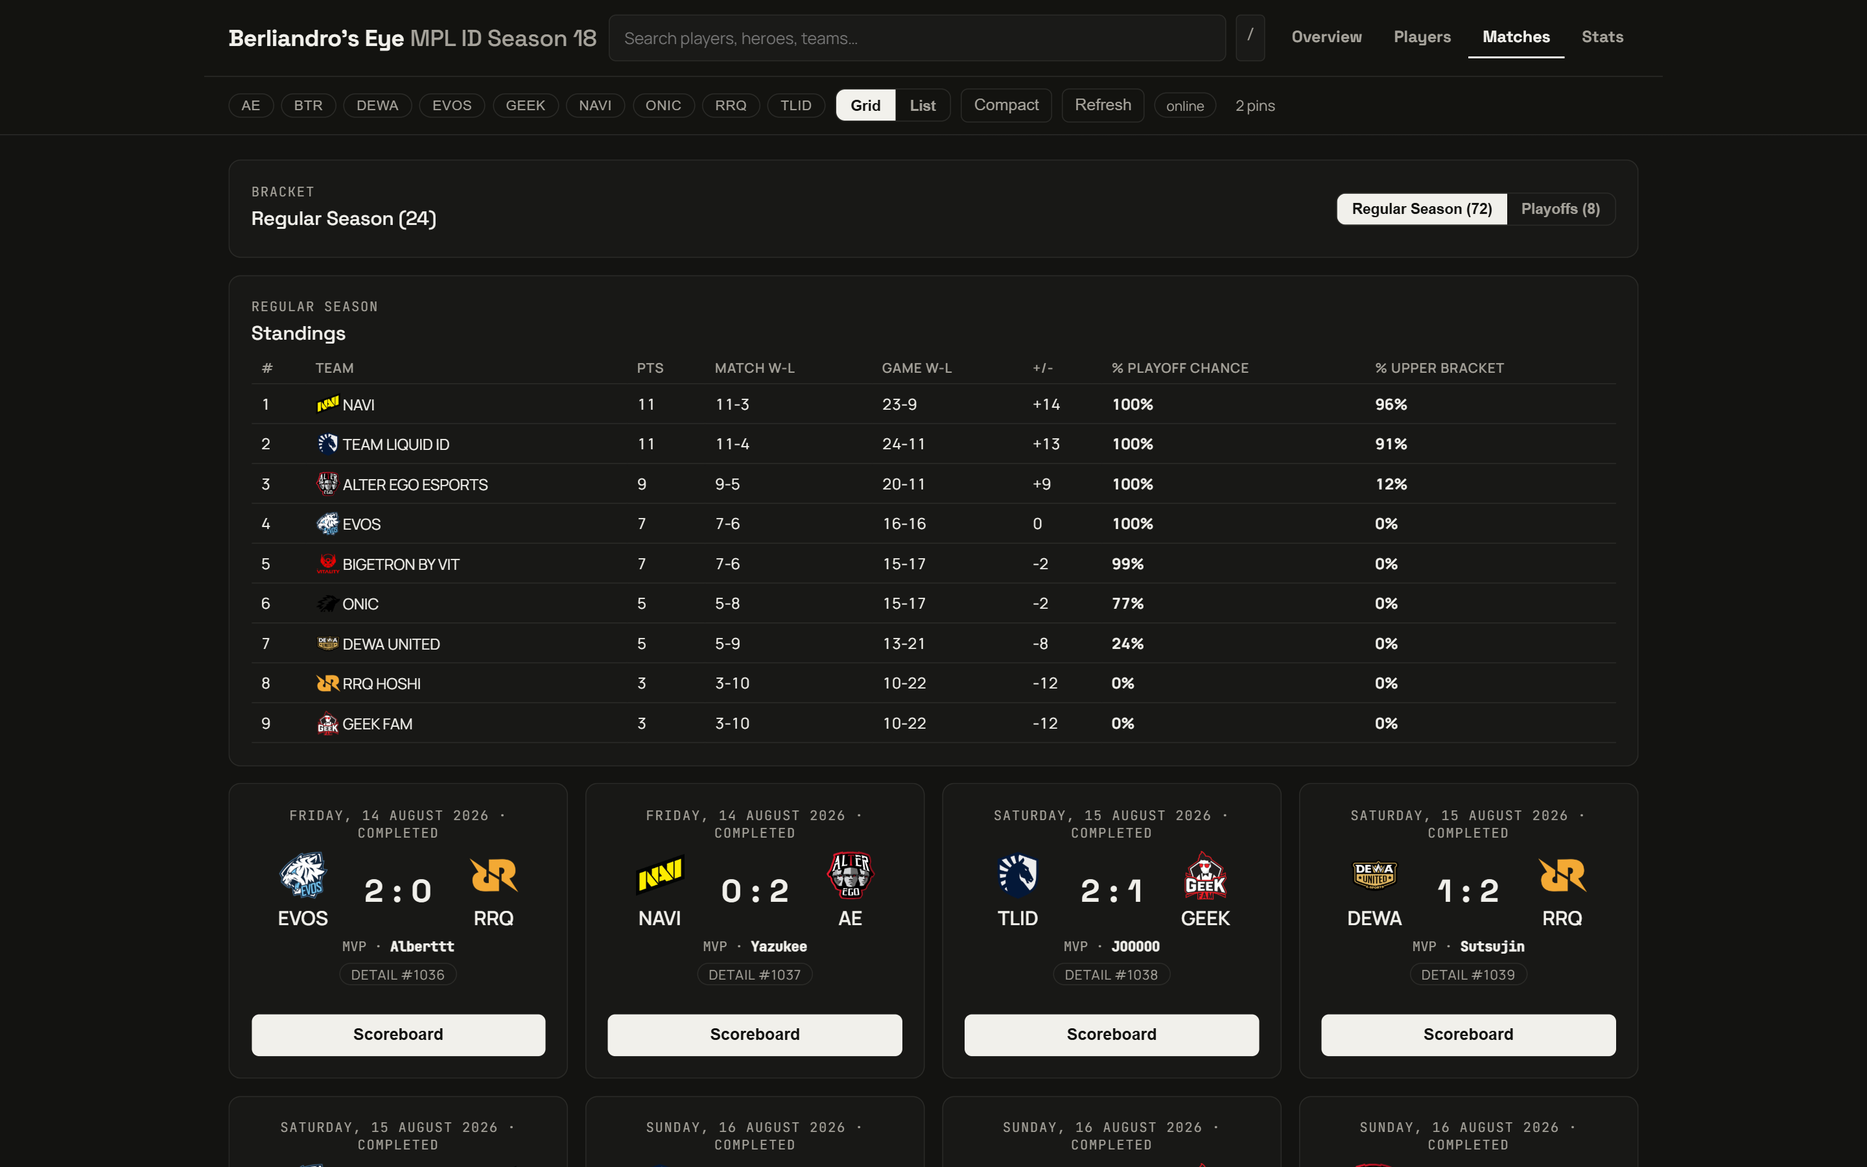
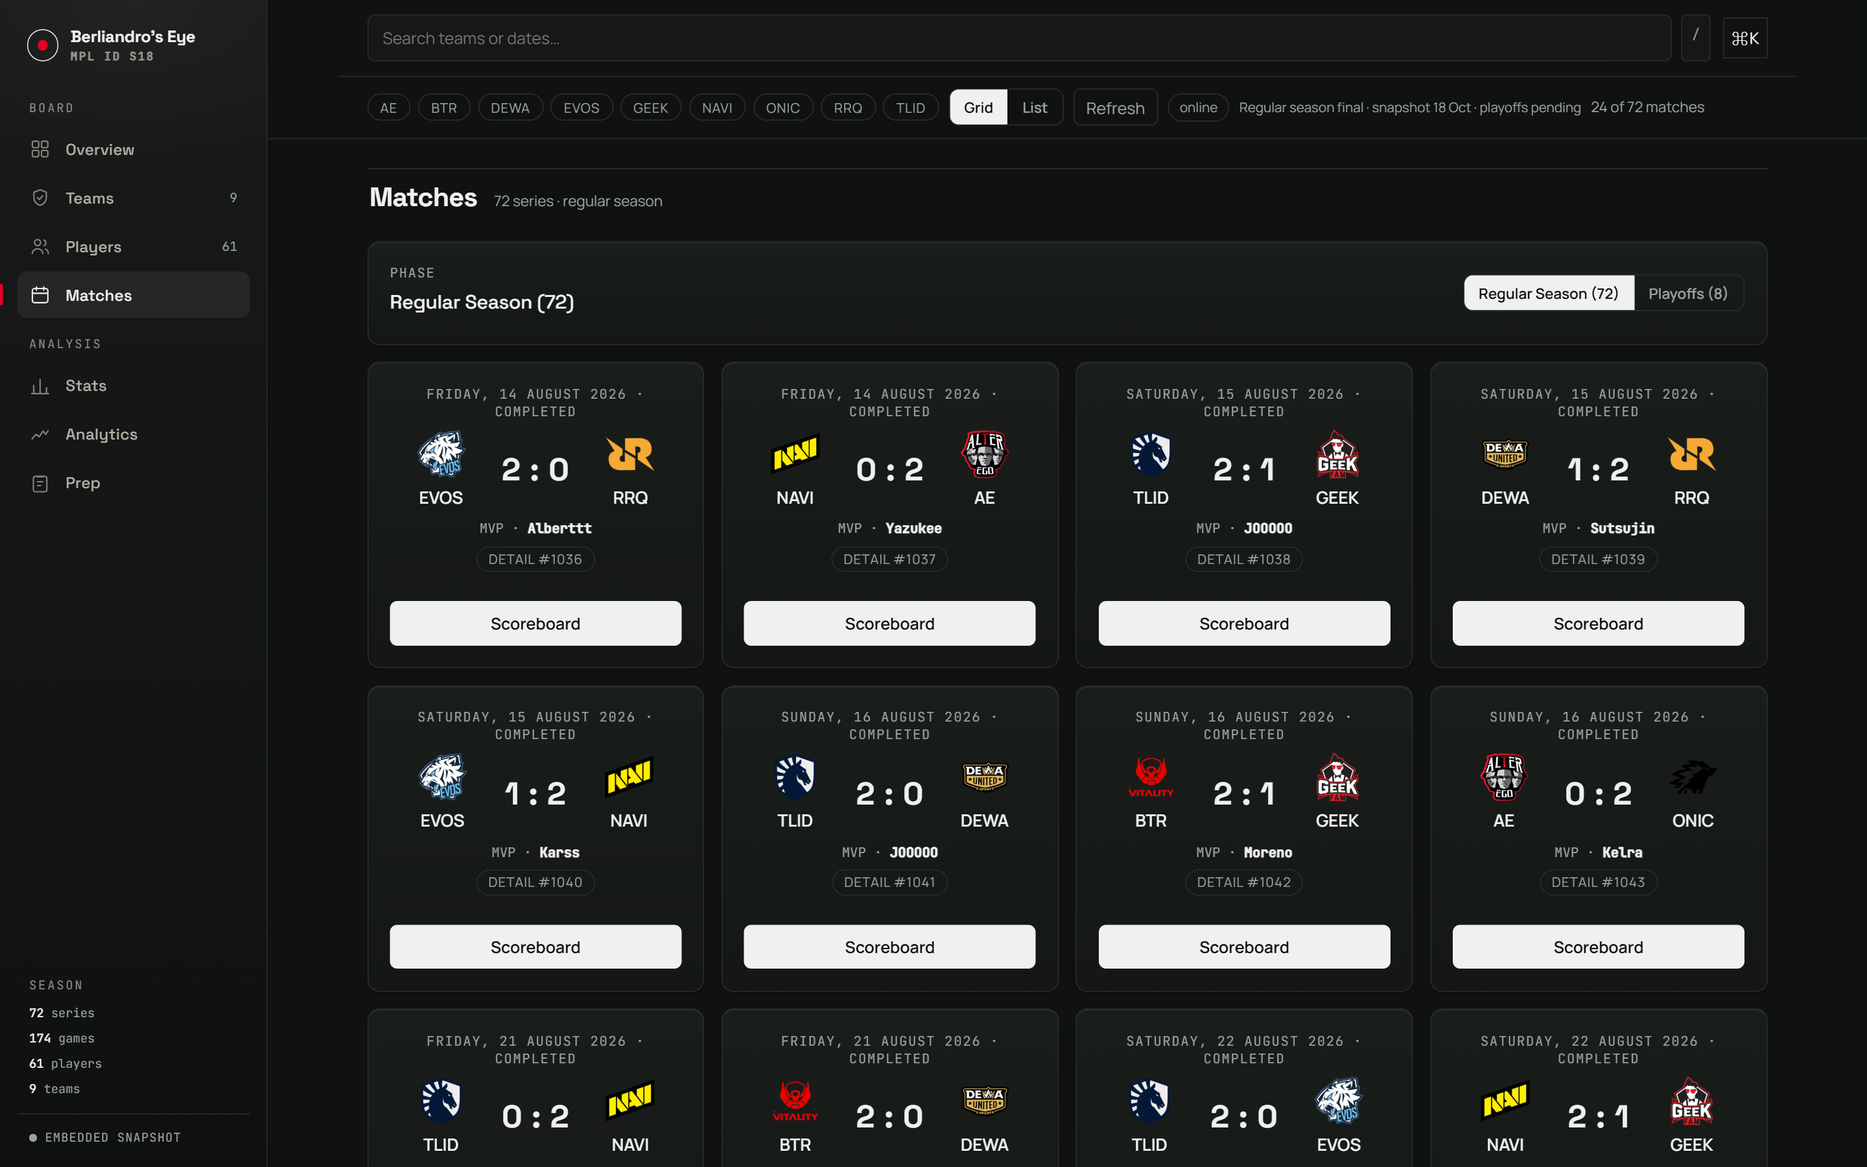
docs: refresh the README gallery for the instrument-panel world; add Teams board and dossier

diff --git a/mpl_id_s18_dark.html b/mpl_id_s18_dark.html
@@ -1328,7 +1328,10 @@ function viewCount(){
 if(S.view==='overview')return '';
 if(S.view==='teams')return TEAMS.length+' teams';
 if(S.view==='players'){const n=board.querySelectorAll('.pl,.lrow').length;return n+(n===1?' player':' players');}
-if(S.view==='matches')return board.querySelectorAll('.mrow,.mpin').length+' matches';
+if(S.view==='matches'){
+ const shown=board.querySelectorAll('.mrow,.mpin').length;
+ const total=(DATA.schedule||[]).filter(m=>{const po=String(m.schedule_id||'').indexOf('playoffs')>-1;return (S.phase==='po'?po:!po)&&m.status==='completed';}).length;
+ return shown+(shown<total?' of '+total:'')+' matches';}
 if(S.view==='stats')return S.stat==='heroes'?(DATA.heroes||[]).filter(h=>(+h.pick||0)+(+h.ban||0)>0).length+' heroes':(DATA.matches||[]).filter(m=>m.liq_mvp).length+' MVP awards';
 if(S.view==='analytics')return anPart('AN').players.length+' players';
 if(S.view==='prep')return PREP?'1 report':'';
@@ -1952,7 +1955,7 @@ function playerHTML(name){
     .sort((a,b)=>(matchOrder()[String(b.mid)]??-1)-(matchOrder()[String(a.mid)]??-1)).slice(0,8);
   const A=window.ASSETS||{heroes:{}};
   const anp=(anPart('AN').players||[]).find(x=>samePlayer(x.player,disp))||null;
-  const hrows=heroes.map(x=>`<tr><td><span class="hcell">${(A.heroes&&A.heroes[x.h])?`<img src="${esc(A.heroes[x.h])}" alt="" loading="lazy" onerror="this.remove()">`:''}${esc(x.h)}</span></td><td>${x.n}</td><td>${x.kda==null?'—':x.kda.toFixed(2)}</td><td>${x.k.toFixed(1)}</td><td>${x.d.toFixed(1)}</td><td>${x.a.toFixed(1)}</td><td>—</td><td>—</td><td>${x.gpm.toFixed(0)}</td></tr>`).join('');
+  const hrows=heroes.map(x=>`<tr><td><span class="hcell">${(A.heroes&&A.heroes[x.h])?`<img src="${esc(A.heroes[x.h])}" alt="" loading="lazy" onerror="this.remove()">`:''}${esc(x.h)}</span></td><td>${x.n}</td><td>${x.kda==null?'—':x.kda.toFixed(2)}</td><td>${x.k.toFixed(1)}</td><td>${x.d.toFixed(1)}</td><td>${x.a.toFixed(1)}</td><td>${x.gpm.toFixed(0)}</td></tr>`).join('');
   const grows=games.map(x=>`<div class="pp-g"><span class="d">${esc(String(x.d).slice(5))}</span><span class="o">${TICON(x.opp)?`<img src="${esc(TICON(x.opp))}" alt="" loading="lazy" ${IMG_HIDE}>`:''}<span>${esc(x.opp)}</span></span><span class="r"><span class="h">${(A.heroes&&A.heroes[x.hero])?`<img src="${esc(A.heroes[x.hero])}" alt="" loading="lazy" onerror="this.remove()">`:''}</span><span>${x.k}/${x.dth}/${x.a}</span><span class="${x.won?'w':'l'}">${x.won?'W':'L'}</span></span></div>`).join('');
   const stat=(k,v,sub)=>`<div><dt>${k}</dt><dd>${v}${sub?`<small>${sub}</small>`:''}</dd></div>`;
   const extra=anp?`${stat('Close-game WR',anp.close.n?Math.round(anp.close.winRate*100)+'%':'—',`${anp.close.wins}/${anp.close.n}`)}
@@ -1982,10 +1985,10 @@ function playerHTML(name){
   </section>
   <div class="pp-grid">
     <section class="pp-block"><h2>Hero pool<span>${heroes.length} heroes</span></h2><div class="sc"><table>
-      <thead><tr><th>Hero</th><th>GP</th><th>AVG KDA</th><th>K/G</th><th>D/G</th><th>A/G</th><th title="No official MPL ID source publishes kill-streak counts">MANIAC</th><th title="No official MPL ID source publishes kill-streak counts">SAVAGE</th><th>GPM</th></tr></thead>
-      <tbody>${hrows||'<tr><td colspan="9">No games</td></tr>'}</tbody>
+      <thead><tr><th>Hero</th><th>GP</th><th>AVG KDA</th><th>K/G</th><th>D/G</th><th>A/G</th><th>GPM</th></tr></thead>
+      <tbody>${hrows||'<tr><td colspan="7">No games</td></tr>'}</tbody>
     </table></div>
-    <p class="pp-note">MANIAC / SAVAGE are not shown: no official MPL ID source publishes kill-streak counts, and they are never estimated.</p></section>
+    <p class="pp-note">MANIAC / SAVAGE are not recorded in this snapshot: no official MPL ID source publishes kill-streak counts, and they are never estimated.</p></section>
     <div class="pp-col">
       ${anp?`<section class="pp-block"><h2>Derived stats<span>season</span></h2><dl class="pp-stats">${extra}</dl><p class="pp-note">Close-game = final kill difference ≤5. Effective pool = heroes with ≥2 games and ≥50% WR. Comfort = usage × win rate. Flex = heroes played in two or more lanes. Damage/gold and tower damage are per-game averages. Definitions match the Analytics view.</p></section>`:''}
       <section class="pp-block"><h2>Recent games<span>last ${games.length}</span></h2><div class="pp-games">${grows||'<p class="pp-note">No games.</p>'}</div></section>

diff --git a/tools/templates/app.js b/tools/templates/app.js
@@ -485,7 +485,10 @@ function viewCount(){
 if(S.view==='overview')return '';
 if(S.view==='teams')return TEAMS.length+' teams';
 if(S.view==='players'){const n=board.querySelectorAll('.pl,.lrow').length;return n+(n===1?' player':' players');}
-if(S.view==='matches')return board.querySelectorAll('.mrow,.mpin').length+' matches';
+if(S.view==='matches'){
+ const shown=board.querySelectorAll('.mrow,.mpin').length;
+ const total=(DATA.schedule||[]).filter(m=>{const po=String(m.schedule_id||'').indexOf('playoffs')>-1;return (S.phase==='po'?po:!po)&&m.status==='completed';}).length;
+ return shown+(shown<total?' of '+total:'')+' matches';}
 if(S.view==='stats')return S.stat==='heroes'?(DATA.heroes||[]).filter(h=>(+h.pick||0)+(+h.ban||0)>0).length+' heroes':(DATA.matches||[]).filter(m=>m.liq_mvp).length+' MVP awards';
 if(S.view==='analytics')return anPart('AN').players.length+' players';
 if(S.view==='prep')return PREP?'1 report':'';
@@ -1109,7 +1112,7 @@ function playerHTML(name){
     .sort((a,b)=>(matchOrder()[String(b.mid)]??-1)-(matchOrder()[String(a.mid)]??-1)).slice(0,8);
   const A=window.ASSETS||{heroes:{}};
   const anp=(anPart('AN').players||[]).find(x=>samePlayer(x.player,disp))||null;
-  const hrows=heroes.map(x=>`<tr><td><span class="hcell">${(A.heroes&&A.heroes[x.h])?`<img src="${esc(A.heroes[x.h])}" alt="" loading="lazy" onerror="this.remove()">`:''}${esc(x.h)}</span></td><td>${x.n}</td><td>${x.kda==null?'—':x.kda.toFixed(2)}</td><td>${x.k.toFixed(1)}</td><td>${x.d.toFixed(1)}</td><td>${x.a.toFixed(1)}</td><td>—</td><td>—</td><td>${x.gpm.toFixed(0)}</td></tr>`).join('');
+  const hrows=heroes.map(x=>`<tr><td><span class="hcell">${(A.heroes&&A.heroes[x.h])?`<img src="${esc(A.heroes[x.h])}" alt="" loading="lazy" onerror="this.remove()">`:''}${esc(x.h)}</span></td><td>${x.n}</td><td>${x.kda==null?'—':x.kda.toFixed(2)}</td><td>${x.k.toFixed(1)}</td><td>${x.d.toFixed(1)}</td><td>${x.a.toFixed(1)}</td><td>${x.gpm.toFixed(0)}</td></tr>`).join('');
   const grows=games.map(x=>`<div class="pp-g"><span class="d">${esc(String(x.d).slice(5))}</span><span class="o">${TICON(x.opp)?`<img src="${esc(TICON(x.opp))}" alt="" loading="lazy" ${IMG_HIDE}>`:''}<span>${esc(x.opp)}</span></span><span class="r"><span class="h">${(A.heroes&&A.heroes[x.hero])?`<img src="${esc(A.heroes[x.hero])}" alt="" loading="lazy" onerror="this.remove()">`:''}</span><span>${x.k}/${x.dth}/${x.a}</span><span class="${x.won?'w':'l'}">${x.won?'W':'L'}</span></span></div>`).join('');
   const stat=(k,v,sub)=>`<div><dt>${k}</dt><dd>${v}${sub?`<small>${sub}</small>`:''}</dd></div>`;
   const extra=anp?`${stat('Close-game WR',anp.close.n?Math.round(anp.close.winRate*100)+'%':'—',`${anp.close.wins}/${anp.close.n}`)}
@@ -1139,10 +1142,10 @@ function playerHTML(name){
   </section>
   <div class="pp-grid">
     <section class="pp-block"><h2>Hero pool<span>${heroes.length} heroes</span></h2><div class="sc"><table>
-      <thead><tr><th>Hero</th><th>GP</th><th>AVG KDA</th><th>K/G</th><th>D/G</th><th>A/G</th><th title="No official MPL ID source publishes kill-streak counts">MANIAC</th><th title="No official MPL ID source publishes kill-streak counts">SAVAGE</th><th>GPM</th></tr></thead>
-      <tbody>${hrows||'<tr><td colspan="9">No games</td></tr>'}</tbody>
+      <thead><tr><th>Hero</th><th>GP</th><th>AVG KDA</th><th>K/G</th><th>D/G</th><th>A/G</th><th>GPM</th></tr></thead>
+      <tbody>${hrows||'<tr><td colspan="7">No games</td></tr>'}</tbody>
     </table></div>
-    <p class="pp-note">MANIAC / SAVAGE are not shown: no official MPL ID source publishes kill-streak counts, and they are never estimated.</p></section>
+    <p class="pp-note">MANIAC / SAVAGE are not recorded in this snapshot: no official MPL ID source publishes kill-streak counts, and they are never estimated.</p></section>
     <div class="pp-col">
       ${anp?`<section class="pp-block"><h2>Derived stats<span>season</span></h2><dl class="pp-stats">${extra}</dl><p class="pp-note">Close-game = final kill difference ≤5. Effective pool = heroes with ≥2 games and ≥50% WR. Comfort = usage × win rate. Flex = heroes played in two or more lanes. Damage/gold and tower damage are per-game averages. Definitions match the Analytics view.</p></section>`:''}
       <section class="pp-block"><h2>Recent games<span>last ${games.length}</span></h2><div class="pp-games">${grows||'<p class="pp-note">No games.</p>'}</div></section>

diff --git a/tools/shots.py b/tools/shots.py
@@ -10,8 +10,8 @@
 Usage: python tools/shots.py [--zoom]
   default: 2880x1800 CSS @ dsf 1 (native, spec-deviation — needs approval)
   --zoom:  the spec above (always use this for README)
-Output: github/assets/*.png (01-overview, 02-players, 03-matches-list,
-  04-matches-grid, 05-scoreboard, 06-player, 07-stats-mvp, 08-stats-heroes)
+Output: github/assets/*.png (01-overview, 09-teams, 10-teams-dossier, 02-players,
+  03-matches-list, 04-matches-grid, 05-scoreboard, 06-player, 07-stats-mvp, 08-stats-heroes)
 """
 import struct
 import sys
@@ -68,6 +68,16 @@ with sync_playwright() as pw:
 
     shot(pg, '01-overview.png')
 
+    pg.click('[data-view="teams"]')
+    pg.wait_for_function("document.querySelectorAll('.tm-dossier').length === 9", timeout=15000)
+    shot(pg, '09-teams.png')
+
+    pg.evaluate("document.getElementById('team-TLID').scrollIntoView({block:'start'})")
+    pg.wait_for_timeout(300)
+    pg.evaluate("window.scrollBy(0, -70)")
+    shot(pg, '10-teams-dossier.png')
+    pg.evaluate("window.scrollTo(0, 0)")
+
     pg.click('[data-view="players"]')
     shot(pg, '02-players.png')
 
@@ -96,17 +106,15 @@ with sync_playwright() as pw:
         pg.keyboard.press('Escape')
         pg.wait_for_timeout(400)
 
-    # opened player card
+    # full player profile page
     pg.click('[data-view="players"]')
-    prow = pg.query_selector('[data-p]')
+    prow = pg.query_selector('.pl[data-p]')
     if prow:
         prow.click()
         pg.wait_for_function(
-            "document.querySelectorAll('#db table tr').length > 1",
+            "document.querySelector('.pp-name') !== null",
             timeout=15000)
         shot(pg, '06-player.png')
-        pg.keyboard.press('Escape')
-        pg.wait_for_timeout(400)
 
     # stats revamp: MVP race + heroes table
     pg.click('[data-view="stats"]')

diff --git a/README.md b/README.md
@@ -1,10 +1,11 @@
 # Berliandro's Eye - MPL ID Season 18
 
-A dark, minimalist, frosted-glass web app for exploring **MPL Indonesia Season 18**
-(regular season + playoffs): player stats, match scoreboards, standings, and series MVPs.
-Ships as **one HTML file plus the committed `assets/` folder** beside it (`mpl_id_s18_dark.html`); the data is embedded, artwork is referenced by relative path, and the pair
-and hero/item artwork embedded — it works offline from the snapshot and refreshes
-live from the mlbbhub API when online.
+A dark, plate-based instrument panel for exploring **MPL Indonesia Season 18**
+(regular season + playoffs): the season front page, nine club dossiers, player profiles,
+match scoreboards, the hero meta and a one-page opponent prep.
+Ships as **one HTML file plus the committed `assets/` folder** beside it (`mpl_id_s18_dark.html`);
+the data is embedded and artwork is referenced by relative path, so the pair works offline from the
+snapshot and refreshes live from the mlbbhub API when online.
 
 ## Semantic coaching pilot
 
@@ -12,25 +13,31 @@ A separate, auditable transcript/database layer lives in [`analysis/`](analysis/
 
 ## Screenshots
 
-### Overview — player deep dive (KDA trend, hero pool, win rates, items, game log)
+### Overview — season front page: latest result, final standings, MVP race, playoffs
 ![Overview](github/assets/01-overview.png)
 
-### Players — sortable cards with hero pools
+### Teams — the league board and nine club dossiers, rating first
+![Teams](github/assets/09-teams.png)
+
+### Teams — a club dossier: crest identity, frosted season band, roster, tendencies, draft, H2H
+![Teams dossier](github/assets/10-teams-dossier.png)
+
+### Players — lane impact, win rate and a six-axis percentile hexagon
 ![Players](github/assets/02-players.png)
 
-### Matches — full-width list layout with series MVP per match
+### Matches — full-width list with the series MVP per match
 ![Matches list](github/assets/03-matches-list.png)
 
-### Matches — grid layout with series MVP per card
+### Matches — grid cards, same fixtures
 ![Matches grid](github/assets/04-matches-grid.png)
 
-### Scoreboard — symmetrical 50/50 split, per-game MVP, first-pick glow
+### Scoreboard — mirrored blue/red panels, per-game lines, bans in draft order
 ![Scoreboard](github/assets/05-scoreboard.png)
 
-### Player card — per-hero AVG KDA / K / D / A, MANIAC, SAVAGE (🚧 under development)
-![Player card](github/assets/06-player.png)
+### Player profile — identity plate, glass season band, hero pool, derived stats
+![Player profile](github/assets/06-player.png)
 
-### Stats — Series MVP race leaderboard + history
+### Stats — Series MVP race and history
 ![Stats MVP](github/assets/07-stats-mvp.png)
 
 ### Stats — Heroes dashboard (highlights + sortable pick/ban/win table)
@@ -40,56 +47,60 @@ A separate, auditable transcript/database layer lives in [`analysis/`](analysis/
 
 - **Overview** — season front page: the latest completed series as a plate (both teams, score,
   series MVP, one click to the scoreboard), a one-line season count, final standings that keep
-  official Match W-L and Game W-L separate, the series-MVP race, and the last six results.
-  Every block routes somewhere; nothing on it is a dead end.
-- **Players** — grid cards built on the profile's grammar: cut-out, IGN, team · lane, a
-  four-number row (GP, KDA, GPM, WR) and a five-bar **lane-percentile strip** (damage share,
-  kill participation, gold share, tower share, KDA) with the value on hover; sub-five-game
-  samples render dimmed. The whole card is the link; list view keeps the sortable table.
-  Filter by team, lane, search text; sort by KDA / kills / gold / games.
-- **Matches** — full-width frosted list (date, logos, score, status, series MVP) and
-  grid cards (also showing series MVP). A Regular/Playoffs sub-tab switches phases.
-  Regular phase shows the **standings board** and **team profiles** (games, W-L,
-  KDA, avg gold, avg game) on top; Playoffs shows **final positions** plus a
-  **bracket preview** (Round 1 → Grand Final) under the history. Completed cards
-  open the scoreboard.
-- **Scoreboard dialog** — symmetrical 50/50 team split with first-pick blue/red glow,
-  centered header (score, duration, **map mode**, date), full-width **bans in draft
-  order**, lane-ordered player rows (EXP/JUNGLE/MID/GOLD/ROAM), a **per-game MVP
-  pill** next to “TEAM won”, and a **VOD deep link**.
+  official Match W-L and Game W-L separate and link to the club dossiers, the series-MVP race,
+  and the last six results. Every block routes somewhere; nothing on it is a dead end.
+- **Teams** — a nine-club league board and nine season dossiers. The board opens on the model's
+  **Rating** order with a **Standings** toggle and a **Δ** rank column when the two disagree; the
+  dossier opens with a crest identity plate and a frosted seven-cell band (series, games,
+  win%, rating with CIs, SOS, form, sides), then roster, tendencies, draft, map record at n≥5
+  and a 4×2 head-to-head. The top three in competition order are open, the other six one click
+  away. Dossiers follow the league: playoff seeds while the bracket is live; after the grand
+  final, bracket 1–4, then 5–6 alphabetical, then the non-qualified clubs.
+- **Players** — grid cards built on the profile's grammar: cut-out, IGN, team · lane, one
+  headline **lane impact**, a supporting row (win rate, KDA, GPM) and a **six-axis percentile
+  hexagon** with the 50th-percentile ring; sub-five-game samples render dimmed. The whole card
+  is the link; list view keeps the sortable table. Filter by team, lane, search text; sort by
+  win rate / lane impact / KDA / kills / gold / games.
+- **Matches** — full-width list (date, crests, score, status, series MVP) and grid cards.
+  A Regular/Playoffs sub-tab switches phases; the regular phase is the fixture list, the
+  playoffs phase adds the **bracket preview** under the history. Completed cards open the
+  scoreboard. Team tables live on the Teams tab, not here.
+- **Scoreboard dialog** — mirrored blue/red panels with the side as a 3px edge, centered
+  header (score, duration, **map mode**, date), full-width **bans in draft order**,
+  lane-ordered player rows (EXP/JUNGLE/MID/GOLD/ROAM), a **per-game MVP** next to
+  “TEAM won”, and a **VOD deep link**.
 - **Player profile** — a full page, not a dialog: cut-out portrait, oversized IGN, team and
   lane lockup, and a glass stat band split **season / last five games** (games, game W-L, KDA,
   K/D/A, GPM, kill participation, damage share). Below it: the hero pool table (GP, AVG KDA,
-  per-game K/D/A, MANIAC, SAVAGE, GPM), a lane-normalised profile (close-game WR, effective
-  pool, comfort/flex, damage per gold, tower damage per game), the last eight games with result
+  per-game K/D/A, GPM; MANIAC/SAVAGE are not in this snapshot and are omitted), a lane-normalised
+  profile (close-game WR, effective pool, comfort/flex, damage per gold, tower damage per game),
+  the last eight games with result
   pills, the KDA-trend chart, side splits, record by opponent, and top items, emblems and
   talents with drill-downs. Every number keeps its `n` or its reason.
-- **Shell** — a left rail carries the six views at 1180px and wider, with inline SVG icons, the
-  active view marked by a 2px accent bar, and live counts for players and series; below that
-  width it falls back to the top tabs. The player profile hides the header entirely.
+- **Shell** — a left rail groups **Board** (Overview, Teams, Players, Matches) and **Analysis**
+  (Stats, Analytics, Prep) at 1180px and wider, with inline SVG icons, live counts for clubs,
+  players and series, and one 2px accent bar. Below that width the seven tabs return, in a 4×2
+  grid on phones with Prep spanning the last two cells. The player profile hides the header.
 - **Stats** — sub-tabbed dashboard: **Series MVP** (race leaderboard + history) and
   **Heroes** (highlight tiles + sortable pick/ban/win table with **role, lane and
   damage-type columns** and share bars).
-- **Analytics — Players** — lane-normalised player impact (35% damage share, 25% kill
+- **Analytics — Impact** — lane-normalised player impact (35% damage share, 25% kill
   participation, 20% gold share, 10% tower share, −10% death share), shrunk toward
   the lane mean with a 5-game prior. Shows KDA/GPM/damage/KP percentiles, a 95%
   Wilson win-rate interval, form delta, and mutes rows under 5 games. The method
   and weights are printed in-product.
-- **Analytics — Teams** — Bradley-Terry ratings with paired-game bootstrap CIs,
-  strength of schedule, form (games and series), blue/red splits, tempo,
-  dominance, clutch (game 3 and series close), map records, and a head-to-head
-  game matrix. Game W-L and Series W-L are shown as separate, explicitly scoped
-  columns; the Standings view preserves the official Match W-L and Game W-L.
 - **Analytics — Draft** — hero pick/ban/WR with CIs and flex, same-team synergy,
-  opposing-pair counters, team fingerprints (top picks/bans, first-ban by side,
-  HHI, pocket picks), composition archetypes, map meta, and date-window meta
-  movement. Pair/counter deltas are labelled as descriptive proxies, not causal.
+  opposing-pair counters, composition archetypes, map meta, and date-window meta
+  movement. Pair/counter deltas are labelled as descriptive proxies, not causal. Team-level
+  draft fingerprints (top picks/bans, first-ban by side, HHI, pocket picks) live in the Teams
+  dossiers.
 - **Prep** — pick an opponent (and optionally our team) for a one-page scouting
   report: rating/form/side/tempo, likely picks and bans, a transparent ban ranking,
   player weaknesses/strengths, weak/strong maps, H2H and lane matchups; print/PDF,
   CSV, and a copyable permalink.
 - **Search + links** — `Ctrl/⌘K` palette across players, teams, heroes and matches;
-  view/analytics/prep state is written to the URL so links restore the report.
+  view/teams/analytics/prep state is written to the URL, so a club dossier, a filtered
+  match list and a prep report are all shareable.
 - **Tables and identity** — Every statistic column sorts ascending/descending with
   a minimalist ▲▼ indicator.
   MVP names from Liquipedia are normalized to one canonical player identity
